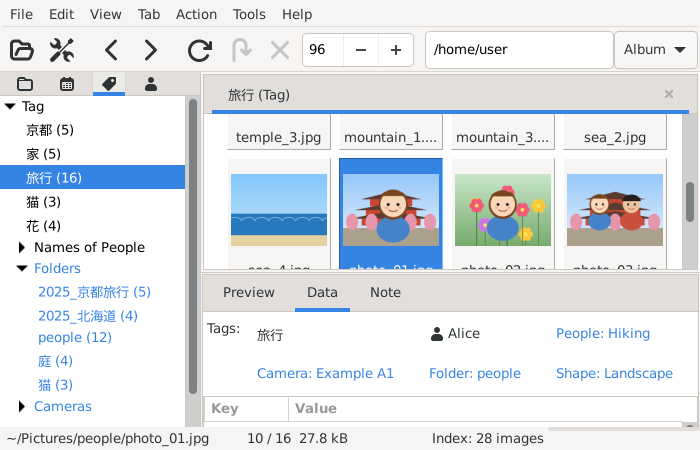
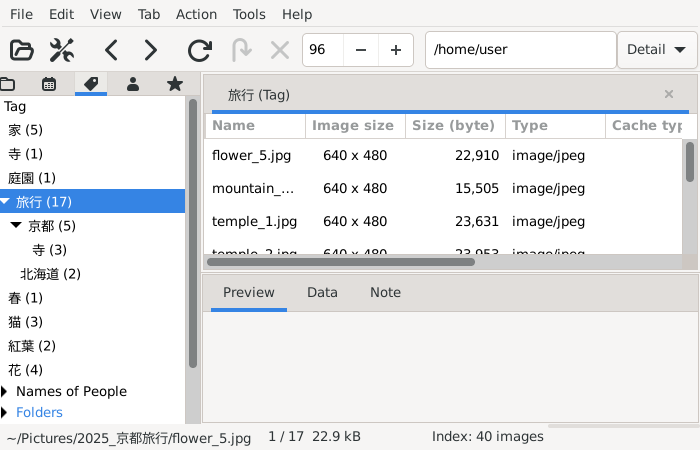
Tag tab: the tags as a tree by "/"
The tags were already written with "/" ("旅行/京都"); the tag tab now
shows them as a tree: "Travel/Kyoto/Temple" is "Temple" below "Kyoto"
below "Travel", the hierarchical keywords of other programs too.

- A parent counts the images of the tags below it too (each image
  once), and is shown even when it is not put on an image itself.
- A click on a parent opens the images of the tags below it too, and a
  tag in the search window takes them too (GIMV_INDEX_TAG_FILES_SQL).
  Names "p/..." sort between "p/" and "p0", which the index can use.
- Renaming (F2) edits the whole name; the tags below a parent renamed
  get the new parent, a parent alone (not put on an image) can be
  renamed, and a rename that meets tags there already asks to merge.

The tags stay plain strings in the comment files and the index: older
versions read them as tags of their own.

diff --git a/doc/en/02.html b/doc/en/02.html
@@ -105,6 +105,9 @@ The images by the date they were taken, in years, months and days, newest first,
 <dt><span class="term"><a name="index_tag_tab"></a>Tag tab</span></dt>
 <dd><p class="para">
 The tags put by hand at the top, then "Names of People" and the groups of the tags put automatically (in blue: Folders, Cameras, Shape, Tags of People).  The keywords other programs put are shown with the tags put by hand, one row for a name (a click opens the images with either; renaming and merging are for the tags put by hand, the keywords are changed in the program that put them).
+</p>
+<p class="para">
+A "/" in a tag makes a tree: "Travel/Kyoto/Temple" is shown as "Temple" below "Kyoto" below "Travel" (the hierarchical keywords of other programs too).  A parent counts the images of the tags below it too, and a click on it opens them all; a parent is shown even when it is not put on an image itself.  Renaming (F2) edits the whole name ("Travel/Kyoto"), and the tags below a parent renamed change with it ("Travel" to "Trips" makes "Trips/Kyoto"); changing what is before a "/" moves a tag below another parent.  A tag given in the search window takes the images of the tags below it too.
 </p></dd>
 <dt><span class="term"><a name="index_open"></a>Opening</span></dt>
 <dd><p class="para">

diff --git a/doc/ja/gimv_history.html b/doc/ja/gimv_history.html
@@ -72,6 +72,9 @@
     o [ファイル | 画像を保存] [Ctrl+S]: 表示している画像を JPEG・PNG・WebP・
       AVIF・TIFF・BMP・PNM で保存 (HEIC を JPEG に，など)．gexiv2 があれば
       EXIF・XMP を残す．gdk-pixbuf の画像保存プラグインを追加
+    o タグタブでタグを「/」で階層に (「旅行/京都」は「旅行」の下)．親を開くと
+      下のタグの画像も．親を改名すると下のタグも変わる
+    o マウスメニューをポインタの右に出す (長くてもスクロールバーが出ない)
     o データタブに「項目を削除」．下の「削除」は「コメントを削除...」にして
       確認を出し，タグは残す．コメントの保存・削除をすぐ索引に反映
     o スライドショーで 2 枚目以降の画像が描かれなかったのを修正

diff --git a/doc/en/gimv_history.html b/doc/en/gimv_history.html
@@ -72,6 +72,10 @@
     o File > Save Image... [Ctrl+S]: saves the image shown as JPEG, PNG,
       WebP, AVIF, TIFF, BMP or PNM (a HEIC as a JPEG, ...), keeping its EXIF
       and XMP with gexiv2.  New gdk-pixbuf image saver plugin.
+    o Tags are a tree by "/" in the tag tab ("Travel/Kyoto" below "Travel"):
+      a parent opens the images of the tags below it too; renaming a parent
+      renames the tags below it.
+    o Context menus open to the right of the pointer (no scroll bars).
     o Data tab: "Remove Item" for the item selected; "Delete Comment..."
       asks first and keeps the tags.  The index follows a comment saved
       or deleted at once.

diff --git a/src/gimv_index_view.c b/src/gimv_index_view.c
@@ -73,8 +73,10 @@ typedef struct {
 
 typedef struct {
    gchar   *name;
-   gint     count;
+   gint     count;      /* the images (of the tags below it too) */
    gboolean auto_tag;   /* put by a rule (file_tags.auto) */
+   gboolean parent;     /* only the parent of tags ("Travel" of
+                         * "Travel/Kyoto"), not put on any image itself */
 } TagCount;
 
 #define AUTO_KEY_MARK  ','
@@ -315,6 +317,59 @@ thread_count_tags (GTask *task, gpointer source, gpointer data, GCancellable *ca
       }
       sqlite3_finalize (st);
    }
+   /* the tags are a tree by "/": a parent counts the images of the tags
+    * below it too ("Travel" those of "Travel/Kyoto"), and is there even
+    * when it is not put on an image itself */
+   if (db) {
+      GHashTable *manual = g_hash_table_new (g_str_hash, g_str_equal);
+      GHashTable *parents = g_hash_table_new_full (g_str_hash, g_str_equal, g_free, NULL);
+      GHashTableIter it;
+      gpointer key;
+      guint i, n = tags->len;
+
+      for (i = 0; i < n; i++) {
+         TagCount *tc = g_ptr_array_index (tags, i);
+         if (!tc->auto_tag && !g_str_has_prefix (tc->name, NAME_TAG))
+            g_hash_table_insert (manual, tc->name, tc);
+      }
+      g_hash_table_iter_init (&it, manual);
+      while (g_hash_table_iter_next (&it, &key, NULL)) {
+         const gchar *name = key, *s;
+         for (s = strchr (name, '/'); s; s = strchr (s + 1, '/'))
+            if (s > name) g_hash_table_add (parents, g_strndup (name, s - name));
+      }
+      if (g_hash_table_size (parents) > 0 && sqlite3_prepare_v2 (db,
+             "SELECT count(DISTINCT id) FROM ("
+             " SELECT ft.file_id AS id FROM file_tags ft JOIN tags t ON t.id = ft.tag_id"
+             "  WHERE ft.auto = 0 AND (t.name = ?1 OR (t.name > ?1 || '/' AND t.name < ?1 || '0'))"
+             " UNION ALL SELECT ft.file_id FROM file_tags ft JOIN tags t ON t.id = ft.tag_id"
+             "  WHERE ft.auto = 1 AND (t.name = 'keyword/' || ?1 OR"
+             "  (t.name > 'keyword/' || ?1 || '/' AND t.name < 'keyword/' || ?1 || '0')))",
+             -1, &st, NULL) == SQLITE_OK)
+      {
+         g_hash_table_iter_init (&it, parents);
+         while (g_hash_table_iter_next (&it, &key, NULL)) {
+            TagCount *tc = g_hash_table_lookup (manual, key);
+            gint count = 0;
+
+            if (g_cancellable_is_cancelled (cancel)) break;
+            sqlite3_reset (st);
+            sqlite3_bind_text (st, 1, key, -1, SQLITE_TRANSIENT);
+            if (sqlite3_step (st) == SQLITE_ROW) count = sqlite3_column_int (st, 0);
+            if (!tc) {
+               tc = g_new0 (TagCount, 1);
+               tc->name   = g_strdup (key);
+               tc->parent = TRUE;
+               g_ptr_array_add (tags, tc);
+            }
+            tc->count = count;
+         }
+         sqlite3_finalize (st);
+      }
+      g_hash_table_destroy (parents);
+      g_hash_table_destroy (manual);
+   }
+
    /* the tags of the people: the images any of them is named in */
    if (db && sqlite3_prepare_v2 (db,
           "SELECT pt.tag, count(DISTINCT fa.file_id) FROM person_tags pt "
@@ -547,10 +602,14 @@ thread_list_files (GTask *task, gpointer source, gpointer data, GCancellable *ca
             "WHERE 'person/' || pt.tag = ?1 AND ?2 = 1) ORDER BY f.date, f.name";
    } else if (req->type == GIMV_INDEX_TAB_TAG && gimv_index_plain_key (key)[0] != AUTO_KEY_MARK)
       /* put by a person, or a keyword of the same name */
+      /* ... and the tags below it ("Travel/Kyoto" below "Travel"): names
+       * "?1/..." sort between "?1/" and "?1" + "0" ('0' follows '/') */
       sql = "SELECT d.path, f.name, f.size, f.mtime, f.date FROM files f "
             "JOIN dirs d ON d.id = f.dir_id WHERE f.id IN (SELECT ft.file_id FROM file_tags ft "
-            "JOIN tags t ON t.id = ft.tag_id WHERE (t.name = ?1 AND ft.auto = ?2) "
-            "OR (t.name = 'keyword/' || ?1 AND ft.auto = 1)) ORDER BY f.date, f.name";
+            "JOIN tags t ON t.id = ft.tag_id WHERE ((t.name = ?1 OR (t.name > ?1 || '/' "
+            "AND t.name < ?1 || '0')) AND ft.auto = ?2) "
+            "OR ((t.name = 'keyword/' || ?1 OR (t.name > 'keyword/' || ?1 || '/' "
+            "AND t.name < 'keyword/' || ?1 || '0')) AND ft.auto = 1)) ORDER BY f.date, f.name";
    else if (req->type == GIMV_INDEX_TAB_TAG)
       sql = "SELECT d.path, f.name, f.size, f.mtime, f.date FROM file_tags ft "
             "JOIN tags t ON t.id = ft.tag_id JOIN files f ON f.id = ft.file_id "
@@ -687,23 +746,61 @@ find_key (GimvRow *parent, const gchar *key)
 }
 
 
+/* by the names as they are cut by "/" ("Travel" < "Travel/Kyoto" <
+ * "Travel 2"): a parent before the tags below it */
+static gint
+cmp_tag_count (gconstpointer pa, gconstpointer pb)
+{
+   const TagCount *a = *(TagCount * const *) pa, *b = *(TagCount * const *) pb;
+   const guchar *x = (const guchar *) a->name, *y = (const guchar *) b->name;
+
+   for (; *x && *x == *y; x++, y++) ;
+   if (*x == *y) return 0;
+   if (*x == '/') return *y ? -1 : 1;
+   if (*y == '/') return *x ? 1 : -1;
+   return *x < *y ? -1 : 1;
+}
+
+
 /* the tags put by a person at the top, then a group for each rule */
 static void
 build_tag_list (IndexView *iv, GimvRow *root, GPtrArray *tags)
 {
    GimvRow *groups[G_N_ELEMENTS (auto_kinds)] = { NULL };
    GimvRow *names = NULL;
+   GPtrArray *manual = g_ptr_array_new ();
+   GHashTable *rows = g_hash_table_new (g_str_hash, g_str_equal);
    guint i, k;
 
+   /* the tags put by a person: a tree by "/" ("Travel/Kyoto" below
+    * "Travel"), the parents before the tags below them */
    for (i = 0; i < tags->len; i++) {
       TagCount *tc = g_ptr_array_index (tags, i);
+      if (tc->auto_tag || g_str_has_prefix (tc->name, NAME_TAG)) continue;
+      g_ptr_array_add (manual, tc);
+   }
+   g_ptr_array_sort (manual, cmp_tag_count);
+   for (i = 0; i < manual->len; i++) {
+      TagCount *tc = g_ptr_array_index (manual, i);
+      const gchar *slash = strrchr (tc->name, '/');
+      GimvRow *parent = root, *row;
       gchar *label;
 
-      if (tc->auto_tag || g_str_has_prefix (tc->name, NAME_TAG)) continue;
-      label = g_strdup_printf ("%s (%'d)", tc->name, tc->count);
-      row_new (root, label, KIND_TAG, tc->name, NULL, NULL);
+      if (slash && slash > tc->name && slash[1]) {
+         gchar *up = g_strndup (tc->name, slash - tc->name);
+         parent = g_hash_table_lookup (rows, up);
+         if (!parent) parent = root;
+         g_free (up);
+      } else {
+         slash = NULL;
+      }
+      label = g_strdup_printf ("%s (%'d)", slash ? slash + 1 : tc->name, tc->count);
+      row = row_new (parent, label, KIND_TAG, tc->name, NULL, NULL);
+      g_hash_table_insert (rows, tc->name, row);
       g_free (label);
    }
+   g_hash_table_destroy (rows);
+   g_ptr_array_unref (manual);
 
    /* the names of faces in the comment files */
    for (i = 0; i < tags->len; i++) {
@@ -1491,6 +1588,8 @@ cb_tree_pressed (GtkGestureClick *gesture, gint n_press, gdouble x, gdouble y,
  ******************************************************************************/
 
 static gboolean manual_tag_exists (const gchar *name);
+static gboolean manual_tags_below (const gchar *name, GPtrArray *out);
+static void     do_rename_tree    (IndexView *iv, const gchar *old, const gchar *new);
 
 /* a tag a person put (those of rules are made by the rules; a keyword of
  * another program alone is renamed there) */
@@ -1505,7 +1604,8 @@ key_is_manual_tag (IndexView *iv, const gchar *key)
    if (g_str_has_prefix (key, NAME_TAG))
       return FALSE;
    row = find_key (iv->root, key);
-   return row && gimv_row_peek_int (row, COL_KIND) == KIND_TAG && manual_tag_exists (key);
+   return row && gimv_row_peek_int (row, COL_KIND) == KIND_TAG
+          && (manual_tag_exists (key) || manual_tags_below (key, NULL));
 }
 
 
@@ -1729,7 +1829,7 @@ cb_merge_answer (GObject *source, GAsyncResult *res, gpointer data)
       if (ask->person)
          do_rename_person_tag (ask->iv, ask->old, ask->new);
       else
-         do_rename (ask->iv, ask->old, ask->new);
+         do_rename_tree (ask->iv, ask->old, ask->new);
    }
    g_object_unref (ask->cancel);
    g_free (ask->old);
@@ -1754,6 +1854,73 @@ manual_tag_exists (const gchar *name)
    found = sqlite3_step (st) == SQLITE_ROW;
    sqlite3_finalize (st);
    return found;
+}
+
+
+/* there are tags a person put below name ("Travel/Kyoto" below "Travel");
+ * their names into out when it is not NULL */
+static gboolean
+manual_tags_below (const gchar *name, GPtrArray *out)
+{
+   sqlite3 *db = gimv_index_get_db ();
+   sqlite3_stmt *st;
+   gboolean found = FALSE;
+
+   if (!db || sqlite3_prepare_v2 (db, "SELECT DISTINCT t.name FROM tags t JOIN file_tags ft "
+                                      "ON ft.tag_id = t.id WHERE t.name > ?1 || '/' "
+                                      "AND t.name < ?1 || '0' AND ft.auto = 0",
+                                  -1, &st, NULL) != SQLITE_OK)
+      return FALSE;
+   sqlite3_bind_text (st, 1, name, -1, SQLITE_TRANSIENT);
+   while (sqlite3_step (st) == SQLITE_ROW) {
+      found = TRUE;
+      if (!out) break;
+      g_ptr_array_add (out, g_strdup ((const gchar *) sqlite3_column_text (st, 0)));
+   }
+   sqlite3_finalize (st);
+   return found;
+}
+
+
+/* old gets the name new, and the tags below it theirs ("Travel/Kyoto"
+ * becomes "Trips/Kyoto" when "Travel" becomes "Trips") */
+static void
+do_rename_tree (IndexView *iv, const gchar *old, const gchar *new)
+{
+   GPtrArray *below = g_ptr_array_new_with_free_func (g_free);
+   gsize len = strlen (old);
+   guint i;
+
+   manual_tags_below (old, below);
+   if (manual_tag_exists (old) || below->len == 0)
+      do_rename (iv, old, new);
+   for (i = 0; i < below->len; i++) {
+      const gchar *name = g_ptr_array_index (below, i);
+      gchar *to = g_strconcat (new, name + len, NULL);
+      gimv_index_rename_tag (name, to);
+      g_free (to);
+   }
+   g_ptr_array_unref (below);
+}
+
+
+/* new, or a tag below it as old's would be named, is there already */
+static gboolean
+rename_merges (const gchar *old, const gchar *new)
+{
+   GPtrArray *below = g_ptr_array_new_with_free_func (g_free);
+   gsize len = strlen (old);
+   gboolean merges = manual_tag_exists (old) && manual_tag_exists (new);
+   guint i;
+
+   manual_tags_below (old, below);
+   for (i = 0; i < below->len && !merges; i++) {
+      gchar *to = g_strconcat (new, (const gchar *) g_ptr_array_index (below, i) + len, NULL);
+      merges = manual_tag_exists (to);
+      g_free (to);
+   }
+   g_ptr_array_unref (below);
+   return merges;
 }
 
 
@@ -1808,7 +1975,7 @@ rename_done (IndexView *iv, const gchar *text)
    } else if (g_str_has_prefix (new, NAME_TAG)) {
       alert (iv, _("Tags starting with \"person/\" are the names of faces."),
              _("They are written by GImageView from the names given in the faces window."));
-   } else if (manual_tag_exists (new)) {
+   } else if (rename_merges (old, new)) {
       /* the same thing tagged with two names: one tag, after asking */
       GtkAlertDialog *dialog = gtk_alert_dialog_new (_("The tag \"%s\" is there already."), new);
       const gchar *buttons[] = { _("_Cancel"), _("_Merge Them"), NULL };
@@ -1830,7 +1997,7 @@ rename_done (IndexView *iv, const gchar *text)
       g_object_unref (dialog);
       g_free (detail);
    } else {
-      do_rename (iv, old, new);
+      do_rename_tree (iv, old, new);
    }
    g_free (old);
    g_free (new);

diff --git a/src/gimv_index_view.h b/src/gimv_index_view.h
@@ -51,12 +51,15 @@ gint       gimv_index_tag_kind        (const gchar         *key);
  * The keywords of other programs (the rule tags "keyword/<name>") are kept
  * apart in the index, but shown and looked for as the tags put by a
  * person: a key "Kyoto" is the tag Kyoto and the keyword Kyoto.
- * GIMV_INDEX_TAG_FILES_SQL: the file ids of such a key (the name bound to
- * both '?').  A key ",keyword/Kyoto" (made before) is "Kyoto".
+ * GIMV_INDEX_TAG_FILES_SQL: the file ids of such a key and of the tags
+ * below it ("Travel" has "Travel/Kyoto": the tags are a tree by "/"; the
+ * name bound to all four '?').  A key ",keyword/Kyoto" (made before) is
+ * "Kyoto".
  */
 #define GIMV_INDEX_TAG_FILES_SQL \
    "SELECT ft.file_id FROM file_tags ft JOIN tags t ON t.id = ft.tag_id " \
-   "WHERE (t.name = ? AND ft.auto = 0) OR (t.name = 'keyword/' || ? AND ft.auto = 1)"
+   "WHERE (ft.auto = 0 AND substr (t.name || '/', 1, length (?) + 1) = ? || '/') " \
+   "OR (ft.auto = 1 AND substr (t.name || '/', 1, length (?) + 9) = 'keyword/' || ? || '/')"
 /* the tags of file_tags ft, t as one name n: the keywords as plain names */
 #define GIMV_INDEX_TAG_NAME_SQL \
    "CASE WHEN ft.auto = 1 AND t.name >= 'keyword/' AND t.name < 'keyword0' " \

diff --git a/src/gimv_index_search.c b/src/gimv_index_search.c
@@ -180,7 +180,10 @@ cond_sql (const Cond *c, GPtrArray *args)
       g_ptr_array_add (args, g_strdup (k + 1));
       return g_strdup_printf ("f.id %s (SELECT file_id FROM file_tags WHERE auto = 1 AND "
                               "tag_id = (SELECT id FROM tags WHERE name = ?))", in);
-   default:  /* put by a person, or a keyword of another program */
+   default:  /* put by a person, or a keyword of another program (and the
+              * tags below it) */
+      g_ptr_array_add (args, g_strdup (k));
+      g_ptr_array_add (args, g_strdup (k));
       g_ptr_array_add (args, g_strdup (k));
       g_ptr_array_add (args, g_strdup (k));
       return g_strdup_printf ("f.id %s (" GIMV_INDEX_TAG_FILES_SQL ")", in);
